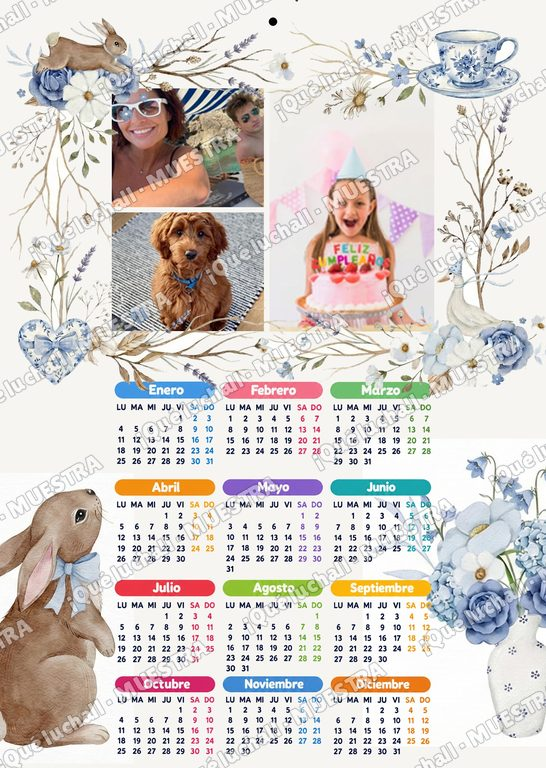
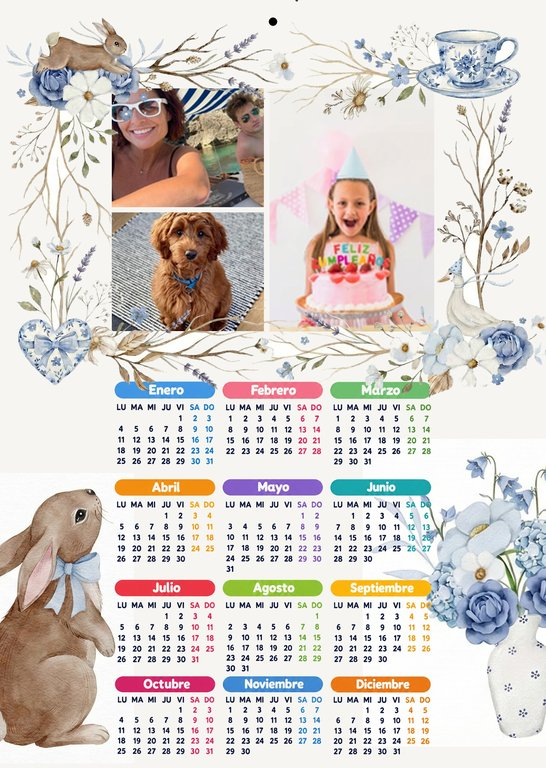
Lupa sin marca de agua
Claude-Session: https://claude.ai/code/session_014LaVcvbzxQCe9KhagWJ2yQ

diff --git a/pedir.html b/pedir.html
@@ -184,10 +184,10 @@ const PRODUCTOS = {
     desc:"El mismo póster collage en 4 diseños: ratón, nido, conejo y colores. Cartulina 300 g, 32 × 45 cm.",
     intro:"Elige el diseño y el año. Los 12 meses van bajo tu collage, en una cartulina de 300 g de 32 × 45 cm.",
     corto:"Póster collage", max:6,
-    variantes:[{id:"raton",nombre:"Ratón",thumb:"disenos/raton/miniatura.jpg?v=4",bg:"#E9EDF4",ac:"#5B6B8C",ln:"#9AA7C0"},
-               {id:"nido",nombre:"Nido",thumb:"disenos/nido/miniatura.jpg?v=4",bg:"#F3EBDD",ac:"#8A6A3B",ln:"#CDBB9A"},
-               {id:"conejo",nombre:"Conejo",thumb:"disenos/conejo/miniatura.jpg?v=4",bg:"#FBEAF0",ac:"#C2577F",ln:"#E3B4C6"},
-               {id:"colores",nombre:"Colores",thumb:"disenos/colores/miniatura.jpg?v=4",bg:"#EAF3FB",ac:"#4197E0",ln:"#A9CDEF"}]},
+    variantes:[{id:"raton",nombre:"Ratón",thumb:"disenos/raton/miniatura.jpg?v=5",bg:"#E9EDF4",ac:"#5B6B8C",ln:"#9AA7C0"},
+               {id:"nido",nombre:"Nido",thumb:"disenos/nido/miniatura.jpg?v=5",bg:"#F3EBDD",ac:"#8A6A3B",ln:"#CDBB9A"},
+               {id:"conejo",nombre:"Conejo",thumb:"disenos/conejo/miniatura.jpg?v=5",bg:"#FBEAF0",ac:"#C2577F",ln:"#E3B4C6"},
+               {id:"colores",nombre:"Colores",thumb:"disenos/colores/miniatura.jpg?v=5",bg:"#EAF3FB",ac:"#4197E0",ln:"#A9CDEF"}]},
   "12hojas":{id:"12hojas",nombre:"Calendario de 12 hojas",precio:"12,50 €",
     desc:"Portada y una hoja por mes, con hasta 6 fotos en cada una. Cartulina 300 g, 32 × 45 cm, a dos caras, anillado y con colgador.",
     corto:"12 hojas", max:6,
@@ -447,7 +447,7 @@ function miniPaleta(v,w){
 }
 
 // ---------- Ver los diseños en grande (lupa) ----------
-function imgGrande(id){ return {src:"disenos/"+id+"/grande.jpg?v=4", previa:"disenos/"+id+"/miniatura.jpg?v=4"}; }
+function imgGrande(id){ return {src:"disenos/"+id+"/grande.jpg?v=5", previa:"disenos/"+id+"/miniatura.jpg?v=5"}; }
 function hoja12Grande(v){
   const anio=S.anio;
   return {clave:"h12_"+v.id+"_"+anio, crear:async()=>{
@@ -481,8 +481,8 @@ function vProducto(){
   const mini12 = '<div class="thumb"><div style="position:relative;width:104px;height:112px" role="img" aria-label="Calendario de 12 hojas en varios colores">'+h12(0)+h12(1)+h12(2)+'</div></div>';
   const card=(pr,mini,extra)=>'<button type="button" class="card" data-prod="'+pr.id+'">'+mini+'<div class="info"><div class="t">'+pr.nombre+'</div><div class="d">'+pr.desc+'</div><div class="row"><span style="font-size:16px;font-weight:700;color:#0B7C82">'+pr.precio+'</span>'+(extra||"")+'</div></div>'+I.chev+'</button>';
   return cab()+'<div class="head"><h1>¿Qué quieres pedir?</h1><p class="sub">Verás cómo queda antes de enviar nada.</p></div>'+
-    '<div class="prods">'+card(q,'<div class="thumb"><img src="disenos/quelucha/miniatura.jpg?v=4" alt="Diseño del calendario Que Lucha!" width="78" height="110" style="width:78px;height:110px;border-radius:6px;box-shadow:0 1px 4px rgba(0,0,0,.25)"></div>','<span class="badge">'+q.badge+'</span>')+
-    card(p,'<div class="thumb"><div style="position:relative;width:104px;height:112px"><img src="disenos/raton/miniatura.jpg?v=4" alt="" style="position:absolute;left:0;top:14px;width:58px;height:82px;border-radius:4px;transform:rotate(-9deg);box-shadow:0 1px 4px rgba(0,0,0,.3)"><img src="disenos/conejo/miniatura.jpg?v=4" alt="" style="position:absolute;left:44px;top:14px;width:58px;height:82px;border-radius:4px;transform:rotate(9deg);box-shadow:0 1px 4px rgba(0,0,0,.3)"><img src="disenos/nido/miniatura.jpg?v=4" alt="Diseños del póster premium" style="position:absolute;left:23px;top:4px;width:58px;height:82px;border-radius:4px;box-shadow:0 2px 6px rgba(0,0,0,.35)"></div></div>')+card(d,mini12)+'</div>'+
+    '<div class="prods">'+card(q,'<div class="thumb"><img src="disenos/quelucha/miniatura.jpg?v=5" alt="Diseño del calendario Que Lucha!" width="78" height="110" style="width:78px;height:110px;border-radius:6px;box-shadow:0 1px 4px rgba(0,0,0,.25)"></div>','<span class="badge">'+q.badge+'</span>')+
+    card(p,'<div class="thumb"><div style="position:relative;width:104px;height:112px"><img src="disenos/raton/miniatura.jpg?v=5" alt="" style="position:absolute;left:0;top:14px;width:58px;height:82px;border-radius:4px;transform:rotate(-9deg);box-shadow:0 1px 4px rgba(0,0,0,.3)"><img src="disenos/conejo/miniatura.jpg?v=5" alt="" style="position:absolute;left:44px;top:14px;width:58px;height:82px;border-radius:4px;transform:rotate(9deg);box-shadow:0 1px 4px rgba(0,0,0,.3)"><img src="disenos/nido/miniatura.jpg?v=5" alt="Diseños del póster premium" style="position:absolute;left:23px;top:4px;width:58px;height:82px;border-radius:4px;box-shadow:0 2px 6px rgba(0,0,0,.35)"></div></div>')+card(d,mini12)+'</div>'+
     '<p class="small center" style="margin-top:auto">Podrás cambiar de producto en cualquier momento antes de confirmar.</p>';
 }
 // Miniaturas del calendario de 12 hojas (izquierda, derecha y la de delante)
@@ -529,7 +529,7 @@ function vConfig(){
   } else {
     const t=p.tema;
     const dz=DISENOS[p.id];
-    if(dz) h+='<div class="center" style="padding:6px 0"><div style="position:relative;width:140px;margin:0 auto"><img src="disenos/'+p.id+'/miniatura.jpg?v=4" alt="Diseño '+esc(p.nombre)+'" width="140" height="197" style="width:140px;height:197px;display:block;border-radius:4px;border:1px solid #B8C0CC;background:#fff">'+QLVisor.lupa('data-ver="'+p.id+'"',p.nombre)+'</div><div class="small" style="margin-top:8px">Un solo diseño. Las fotos del ejemplo son de muestra: irán las tuyas. Toca la lupa para verlo en grande.</div></div>';
+    if(dz) h+='<div class="center" style="padding:6px 0"><div style="position:relative;width:140px;margin:0 auto"><img src="disenos/'+p.id+'/miniatura.jpg?v=5" alt="Diseño '+esc(p.nombre)+'" width="140" height="197" style="width:140px;height:197px;display:block;border-radius:4px;border:1px solid #B8C0CC;background:#fff">'+QLVisor.lupa('data-ver="'+p.id+'"',p.nombre)+'</div><div class="small" style="margin-top:8px">Un solo diseño. Las fotos del ejemplo son de muestra: irán las tuyas. Toca la lupa para verlo en grande.</div></div>';
     else h+='<div class="center" style="padding:6px 0"><div class="mini" style="width:140px;height:197px;margin:0 auto;background:'+t.bg+'"><div class="ph" style="height:58px"></div><div class="ln" style="background:repeating-linear-gradient(to bottom,'+t.ln+' 0,'+t.ln+' 1px,transparent 1px,transparent 8px),repeating-linear-gradient(to right,'+t.ln+' 0,'+t.ln+' 1px,transparent 1px,transparent 13px)"></div></div><div class="small" style="margin-top:8px">Un solo diseño. Miniatura de ejemplo.</div></div>';
   }
   h+=selAnio();

diff --git a/index.html b/index.html
@@ -174,7 +174,7 @@ footer small{display:block;margin-top:14px;opacity:.92}
       <div class="tit"><h2 class="display">Nuestros productos</h2><p>Detalles que emocionan, recuerdos que perduran.</p></div>
       <div class="rejilla">
         <article class="prod">
-          <div class="foto alto rota"><img class="on" src="img/ejemplo-quelucha.jpg" alt="Ejemplo de calendario de pared con fotos del equipo" loading="lazy"><img src="disenos/raton/miniatura.jpg?v=4" alt="Diseño de calendario Ratón" loading="lazy"><img src="disenos/nido/miniatura.jpg?v=4" alt="Diseño de calendario Nido" loading="lazy"><img src="disenos/conejo/miniatura.jpg?v=4" alt="Diseño de calendario Conejo" loading="lazy"><img src="disenos/colores/miniatura.jpg?v=4" alt="Diseño de calendario Colores" loading="lazy"><span class="etq ok">Disponible</span></div>
+          <div class="foto alto rota"><img class="on" src="img/ejemplo-quelucha.jpg" alt="Ejemplo de calendario de pared con fotos del equipo" loading="lazy"><img src="disenos/raton/miniatura.jpg?v=5" alt="Diseño de calendario Ratón" loading="lazy"><img src="disenos/nido/miniatura.jpg?v=5" alt="Diseño de calendario Nido" loading="lazy"><img src="disenos/conejo/miniatura.jpg?v=5" alt="Diseño de calendario Conejo" loading="lazy"><img src="disenos/colores/miniatura.jpg?v=5" alt="Diseño de calendario Colores" loading="lazy"><span class="etq ok">Disponible</span></div>
           <div class="cuerpo">
             <h3>Calendarios de pared</h3>
             <p>Cada mes, una razón para sonreír. Con tus propias fotos.</p>

diff --git a/visor.js b/visor.js
@@ -19,16 +19,11 @@
   var LUPA='<svg width="18" height="18" viewBox="0 0 24 24" fill="none" stroke="#0B7C82" stroke-width="2.4" stroke-linecap="round" aria-hidden="true"><circle cx="10.5" cy="10.5" r="6.5"/><path d="M15.5 15.5L21 21M10.5 7.5v6M7.5 10.5h6"/></svg>';
   function lupa(attr,nombre){ return '<button type="button" class="qlv-lupa" '+attr+' aria-label="Ver '+(nombre||"")+' en grande">'+LUPA+'</button>'; }
 
-  // Copia reducida (760 px de ancho) con la marca de agua "¡Qué lucha!! · MUESTRA" en diagonal. Devuelve un JPG.
+  // Copia reducida (760 px de ancho), que no sirve para imprimir. Devuelve un JPG.
   function marca(src){
     var W=760, H=Math.round(W*src.height/src.width), cv=document.createElement("canvas"); cv.width=W; cv.height=H;
     var g=cv.getContext("2d"); g.imageSmoothingQuality="high"; g.drawImage(src,0,0,W,H);
-    var txt="¡Qué lucha!! · MUESTRA"; g.font='34px "QL Titulo","Lilita One",system-ui,sans-serif';
-    var tw=g.measureText(txt).width, px=tw+60, py=150, D=Math.hypot(W,H);
-    g.save(); g.translate(W/2,H/2); g.rotate(-Math.PI/6);
-    g.lineWidth=1.5; g.strokeStyle="rgba(17,24,39,.24)"; g.fillStyle="rgba(255,255,255,.42)"; g.textBaseline="top";
-    for(var f=0,y=-D/2; y<D/2; y+=py,f++) for(var x=-D/2-(f%2)*px/2; x<D/2; x+=px){ g.strokeText(txt,x,y); g.fillText(txt,x,y); }
-    g.restore(); return cv.toDataURL("image/jpeg",.8);
+    return cv.toDataURL("image/jpeg",.82);
   }
 
   var cache={};
